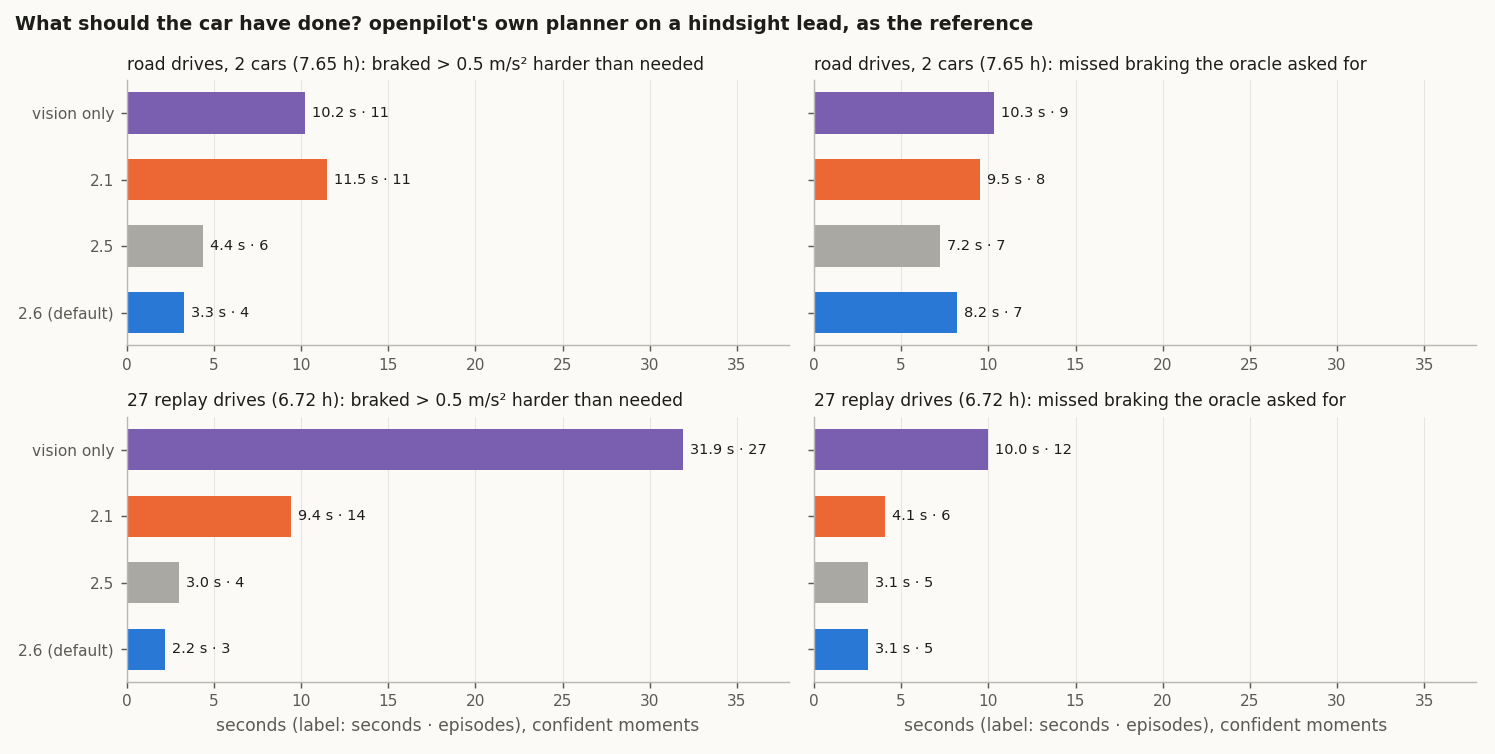
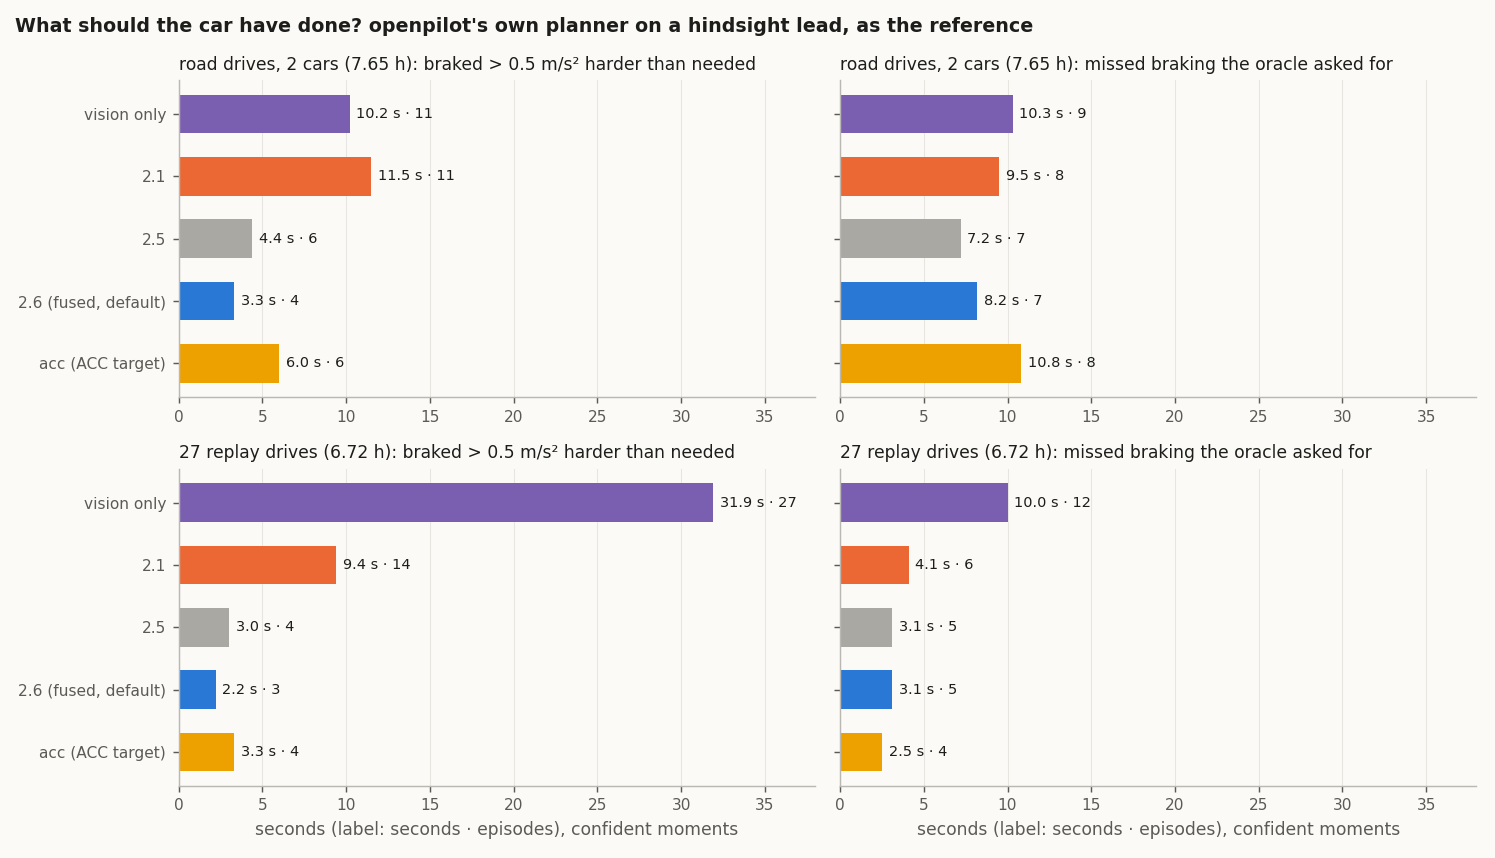
docs, data: the acc profile in the profile figures and stats (#118)
acc replayed on the 27 replay drives with the profiles-vs-vision harness and definitions (onset -0.036 s vs vision,
same anticipation, 9 of 47 hard slowdowns missed, no radar-only braking, jerk 0.985, 318 flips/h); added to
profiles_vs_vision.json / .png, profile_layers.png, profile_comparison.png (its ACC target), oracle_reference.json /
guide_oracle.png (fast-suite rows), docs/11 tables and text, docs/12. One colour for acc in every figure.

diff --git a/tools/make_fused_figures.py b/tools/make_fused_figures.py
@@ -47,6 +47,7 @@ def frames_for_slot(slot: bytes, t: float) -> list:
 
 OUT = REPO / "docs" / "img" / "analysis"
 VIS, ANC, FUS, ACC, SUM = "#7a5fb0", S2, S3, INK, S4
+ACCP = S4  # the acc profile (ACC target alone): one colour in every figure
 
 
 def how_it_works() -> None:
@@ -98,6 +99,18 @@ def path_gate_lines() -> int:
     return j - i
 
 
+def acc_lines() -> int:
+    """Code lines of upstream/ars510_acc_target.py, counted as the parts ledger counts them (no docstrings, comments, blanks)."""
+    import ast, io, tokenize
+    src = (REPO / "upstream" / "ars510_acc_target.py").read_text(); tree = ast.parse(src); doc = set()
+    for node in ast.walk(tree):
+        if isinstance(node, (ast.Module, ast.ClassDef, ast.FunctionDef)) and ast.get_docstring(node):
+            doc.update(range(node.body[0].lineno, node.body[0].end_lineno + 1))
+    skip = (tokenize.COMMENT, tokenize.NL, tokenize.NEWLINE, tokenize.INDENT, tokenize.DEDENT, tokenize.ENDMARKER)
+    lines = {ln for tok in tokenize.generate_tokens(io.StringIO(src).readline) if tok.type not in skip for ln in range(tok.start[0], tok.end[0] + 1)}
+    return len(lines - doc)
+
+
 def layers() -> None:
     """Which processing each profile applies (rows) and how many code lines each part takes (counted from ars510)."""
     import inspect
@@ -111,28 +124,30 @@ def layers() -> None:
             ("ACC target: association", n(I._acc_target_match), (0, 1)),
             ("Kalman speed filter (σ from the radar)", n(I._fused_speed), (0, 1)),
             ("path gate (yaw rate)", path_gate_lines(), (0, 1)),
-            ("summaries (fork option, on in colored)", n(I._summary_update, I._summary_speed, I._summary_match), (0, 0))]
-    prof = ["raw", "fused (default)"]; colors = [GRAY, FUS]
-    fig, ax = plt.subplots(figsize=(8.5, 3.6))
-    for i, (name, lines, on) in enumerate(rows):
+            ("summaries (fork option, on in colored)", n(I._summary_update, I._summary_speed, I._summary_match), (0, 0, 0), ""),
+            ("ACC target (0x235 / 0x237) as the only point", acc_lines(), (0, 0, 1), " (the whole acc file)")]
+    rows = [r if len(r) == 4 else (*r[:2], (*r[2], 0), "") for r in rows]
+    prof = ["raw", "fused (default)", "acc"]; colors = [GRAY, FUS, ACCP]
+    fig, ax = plt.subplots(figsize=(9.6, 3.9))
+    for i, (name, lines, on, note) in enumerate(rows):
         y = len(rows) - 1 - i
         for j, flag in enumerate(on):
             ax.add_patch(plt.Rectangle((j + 0.08, y + 0.12), 0.84, 0.76, color=colors[j] if flag else "#efeee9", lw=0))
         ax.text(-0.1, y + 0.5, name, ha="right", va="center", fontsize=8.8)
-        ax.text(2.1, y + 0.5, f"{lines} lines", ha="left", va="center", fontsize=8.3, color=INK2)
-    ax.set_xlim(-0.05, 2.8); ax.set_ylim(0, len(rows)); ax.set_xticks([0.5, 1.5], prof); ax.xaxis.tick_top()
+        ax.text(3.1, y + 0.5, f"{lines} lines{note}", ha="left", va="center", fontsize=8.3, color=INK2)
+    ax.set_xlim(-0.05, 4.2); ax.set_ylim(0, len(rows)); ax.set_xticks([0.5, 1.5, 2.5], prof); ax.xaxis.tick_top()
     ax.set_yticks([]); ax.grid(False)
     for sp in ax.spines.values(): sp.set_visible(False)
-    ax.set_title("What each profile does to a track (after the shared 0x80 decode)", pad=26)
+    ax.set_title("What each profile does: raw and fused process the 0x80 object list, acc only the ACC target", pad=26, fontsize=10.5)
     fig.tight_layout(); fig.savefig(OUT / "profile_layers.png", dpi=130); plt.close(fig)
 
 
 def vs_vision() -> None:
     S = json.loads((REPO / "data" / "analysis" / "summaries" / "profiles_vs_vision.json").read_text())
     ev, req = S["heldout_events"], S["heldout_one_system_requests_and_overrides"]
-    prof = ["raw", "fused_no_trackers", "fused"]; colors = [GRAY, "#8fd9bb", FUS]
-    names = ["raw", "fused,\nno ACC target", "fused\n(default)"]
-    fig, (a1, a2, a3) = plt.subplots(1, 3, figsize=(13.5, 4.0))
+    prof = ["raw", "fused_no_trackers", "fused", "acc"]; colors = [GRAY, "#8fd9bb", FUS, ACCP]
+    names = ["raw", "fused,\nno ACC target", "fused\n(default)", "acc\n(ACC target)"]
+    fig, (a1, a2, a3) = plt.subplots(1, 3, figsize=(15, 4.2))
     m = [ev[p]["onset_diff_mean_s"] for p in prof]; ci = np.array([ev[p]["onset_diff_ci"] for p in prof]).T
     a1.bar(names, m, color=colors, yerr=[np.array(m) - ci[0], ci[1] - np.array(m)], capsize=4)
     a1.axhline(0, color=INK, lw=0.8); a1.set_ylabel("onset vs vision only (s, < 0 = earlier)")
@@ -144,7 +159,7 @@ def vs_vision() -> None:
     a2.axhline(ev["fused"]["vision_ant10"] * 100, color=VIS, ls=":", lw=1.1)
     a2.set_xticks(x, names); a2.set_ylabel("% of driver brakes"); a2.set_ylim(0, 100)
     a2.set_title("Already asking within 3 s before (purple: vision only)")
-    a2.text(1.0, 93, "solid ≤ −0.5, light ≤ −1.0 m/s²", fontsize=7.5, color=INK2, ha="center")
+    a2.text(1.5, 93, "solid ≤ −0.5, light ≤ −1.0 m/s²", fontsize=7.5, color=INK2, ha="center")
     slowed = [req[p]["radar_only_driver"].get("slowed", 0) for p in prof]
     gas = [req[p]["radar_only_driver"].get("on_gas", 0) for p in prof]
     a3.bar(names, slowed, color=colors, label="driver also slowed")

diff --git a/tools/make_profile_figures.py b/tools/make_profile_figures.py
@@ -4,7 +4,8 @@
     python tools/make_profile_figures.py      # writes docs/img/analysis/profile_comparison.png, acc_sender_clock.png
 
 Every panel runs ars510.Ars510NativeRadarInterface on data/sample/*.csv.gz and plots the in-lane lead (|yRel| < 1.8 m,
-nearest) as published, so the figures can be regenerated from the repository alone.
+nearest) as published, so the figures can be regenerated from the repository alone. The dashed ACC target is what the
+acc profile (upstream/ars510_acc_target.py) publishes as its one point.
 """
 from __future__ import annotations
 
@@ -47,12 +48,14 @@ def frames(name: str):
 def lead(name, cfg) -> dict:
     """Published in-lane lead per radar cycle, plus the radar's ACC target closing speed when present."""
     radar = Ars510NativeRadarInterface(cfg)
-    out = {"t": [], "v": [], "d": [], "acc_t": [], "acc_v": []}
+    out = {"t": [], "v": [], "d": [], "acc_t": [], "acc_v": [], "accd_t": [], "acc_d": []}
     for t, bus, addr, data in (frames(name) if isinstance(name, str) else name()):
         if bus == 1 and addr == 0x235 and len(data) == 8 and data[1] & 4:
             v = parse_acc_target_vrel(data)
             if v is not None:
                 out["acc_t"].append(t); out["acc_v"].append(v)
+        if bus == 1 and addr == 0x237 and len(data) == 8 and (int.from_bytes(data, "big") >> 10) & 1:
+            out["accd_t"].append(t); out["acc_d"].append(((int.from_bytes(data, "big") >> 39) & 0x1FFF) * 0.025)
         res = radar.update_frame(t, bus, addr, data)
         if not res:
             continue
@@ -72,8 +75,13 @@ def profiles_figure() -> None:
                                          ("highway_acc_anchor_24s.csv.gz", "Drive E: excursion that drags the range"))):
         runs = {lab: lead(name, cfg) for lab, cfg in (("raw", STOCK), ("fused", FUSED_CONFIG))}
         av, ad = axes[0, col], axes[1, col]
-        if runs["raw"]["acc_t"]:
-            av.plot(runs["raw"]["acc_t"], runs["raw"]["acc_v"], color=INK, lw=1.0, ls="--", label="radar's ACC target (0x235)")
+        if runs["raw"]["acc_t"]:  # the acc profile publishes exactly this target as its one point
+            av.plot(runs["raw"]["acc_t"], runs["raw"]["acc_v"], color=S4, lw=1.4, ls="--", label="radar's ACC target (0x235) = acc")
+        else:
+            ad.text(0.98, 0.04, "no ACC target in this drive: acc publishes no point\n(radard uses the camera lead)", transform=ad.transAxes,
+                    ha="right", va="bottom", fontsize=7.5, color=INK2)
+        if runs["raw"]["accd_t"]:
+            ad.plot(runs["raw"]["accd_t"], runs["raw"]["acc_d"], color=S4, lw=1.4, ls="--", label="ACC target distance = acc")
         for lab, color in (("raw", GRAY), ("fused", S3)):
             r = runs[lab]
             av.plot(r["t"], r["v"], color=color, label=lab)

diff --git a/tools/make_guide_figures.py b/tools/make_guide_figures.py
@@ -219,10 +219,11 @@ def parts_ledger() -> None:
 def oracle() -> None:
   """Unnecessary and missed braking against openpilot's planner on a hindsight lead (confident moments), two data sets."""
   O = json.loads((SUM / "oracle_reference.json").read_text())
-  sets = (("road drives, 2 cars (7.65 h)", O["confident"], ["vision", "2.1", "2.5", "2.6"]),
-          ("27 replay drives (6.72 h)", O["suite_34_drives"]["confident"], ["vision", "2.1", "2.5", "2.6"]))
-  names = {"vision": "vision only", "2.1": "2.1", "2.5": "2.5", "2.6": "2.6 (default)"}; col = {"vision": VIS, "2.1": V21, "2.5": GRAY, "2.6": V23}
-  fig, axs = plt.subplots(2, 2, figsize=(11.5, 5.8))
+  sets = (("road drives, 2 cars (7.65 h)", O["confident"], ["vision", "2.1", "2.5", "2.6", "acc"]),
+          ("27 replay drives (6.72 h)", O["suite_34_drives"]["confident"], ["vision", "2.1", "2.5", "2.6", "acc"]))
+  names = {"vision": "vision only", "2.1": "2.1", "2.5": "2.5", "2.6": "2.6 (fused, default)", "acc": "acc (ACC target)"}
+  col = {"vision": VIS, "2.1": V21, "2.5": GRAY, "2.6": V23, "acc": S4}
+  fig, axs = plt.subplots(2, 2, figsize=(11.5, 6.6))
   for r, (label, C, vers) in enumerate(sets):
     for c, (kind, title) in enumerate((("unnecessary", "braked > 0.5 m/s² harder than needed"), ("missed", "missed braking the oracle asked for"))):
       ax = axs[r, c]; v = [C[k][kind]["seconds"] for k in vers]; n = [C[k][kind]["episodes"] for k in vers]
@@ -266,7 +267,7 @@ def acc_target_parser() -> None:
   """The ACC target alone against 2.6: file size and braking outcomes over every drive set, from acc_target_parser.json."""
   J = json.loads((SUM / "acc_target_parser.json").read_text()); F, A = J["file_size"], J["by_version_and_set"]
   M = J["hard_and_mild_moving_vs_standstill"]; ALL = "all sets"
-  col = {"vision only": VIS, "2.6": V21, "ACC target only": V23}
+  col = {"vision only": VIS, "2.6": V23, "ACC target only": S4}
   fig, axs = plt.subplots(1, 5, figsize=(13, 3.6), gridspec_kw={"width_ratios": [1.5, 1, 1, 1, 1]})
   ms = ["code_lines", "constants", "state_attributes", "conditions"]; x = np.arange(len(ms))
   for k, (v, dx) in enumerate((("2.6", -0.2), ("ACC target only", 0.2))):

diff --git a/docs/11_profiles_compared.md b/docs/11_profiles_compared.md
@@ -1,7 +1,7 @@
 # 11. Profiles compared: what each does, against vision only and other radar parsers
 
-This page compares `raw` and `fused` (plus a diagnostic `fused` 2.0 run without the ACC target): how
-they work, against **vision only** (stock openpilot on this car), on driving feel, and against openpilot's other radar
+This page compares `raw`, `fused` and `acc` (plus a diagnostic `fused` 2.0 run without the ACC target): how they
+work, against **vision only** (stock openpilot on this car), on driving feel, and against openpilot's other radar
 interfaces.
 
 Numbers: [`profiles_vs_vision.json`](../data/analysis/summaries/profiles_vs_vision.json),
@@ -10,25 +10,29 @@ Numbers: [`profiles_vs_vision.json`](../data/analysis/summaries/profiles_vs_visi
 
 ## At a glance
 
-| | `raw` | `fused` 2.0 without ACC target | `fused` (default) |
-|---|---|---|---|
-| what it adds to the decode | validity, IDs, ego subtraction | range fusion + one Kalman speed filter on the object list | the same filter, also fusing the radar's ACC target, plus a path gate |
-| filter settings | — | scalar process scale, robust update and readiness threshold | also the ACC target's weight; [definitions and evidence](12_kalman_filter.md#the-model) |
-| code | fork build: relink and saturation guard on the shared decode ([below](#how-each-profile-works)) | fork build: speed filter and range fusion | the openpilot version is 187 code lines in all ([10](10_research_directions.md#parts-of-the-openpilot-file)) |
-| hard radar-only braking ticks, 20 held-out routes | 93 | 48 | **29** |
-| braking only the radar asked for, per hour (driver on the gas) | 1.75 (0.66) | 0.88 (0.22) | **0.22 (0)** |
-| first braking request vs vision only (148 paired driver brakes; 149 for `fused`) | −0.15 s | −0.03 s | −0.01 s |
-| recommended for | research | diagnostic: the filter on the object list alone | everyday driving |
+| | `raw` | `fused` 2.0 without ACC target | `fused` (default) | `acc` |
+|---|---|---|---|---|
+| what it publishes | the decoded object list: validity, IDs, ego subtraction | the object list through range fusion + one Kalman speed filter | the same filter, also fusing the radar's ACC target, plus path gates and the far rule | only the radar's ACC target (0x235 / 0x237), as one point; no object list |
+| filter settings | — | scalar process scale, robust update and readiness threshold | also the ACC target's weight; [definitions and evidence](12_kalman_filter.md#the-model) | none |
+| code | fork build: relink and saturation guard on the shared decode ([below](#how-each-profile-works)) | fork build: speed filter and range fusion | the openpilot version is 187 code lines in all ([10](10_research_directions.md#parts-of-the-openpilot-file)) | 33 code lines in all ([10](10_research_directions.md#the-acc-target-alone--candidate)) |
+| hard radar-only braking ticks, 20 held-out routes (while moving) | 93 | 48 | **16 (16)** | 66 (**14**) |
+| braking only the radar asked for, per hour (driver on the gas) | 1.75 (0.66) | 0.88 (0.22) | **0 (0)** | **0 (0)** |
+| first braking request vs vision only (148 paired driver brakes; 149 for `fused` and `acc`) | −0.15 s | −0.03 s | −0.01 s | −0.04 s |
+| recommended for | research | diagnostic: the filter on the object list alone | everyday driving | road tests of the candidate replacement |
 
-`raw` is the unfiltered radar decode. The middle column is a diagnostic: `fused` with the ACC target ignored, which
-shows the Kalman filter on its own. The names of the earlier tuned profiles (`anchor`, `steady`) install `fused`.
+`raw` is the unfiltered radar decode. The `fused` 2.0 column is a diagnostic: `fused` with the ACC target ignored, which
+shows the Kalman filter on its own. `acc`'s hard ticks are mostly holds at standstill (52 of 66): the stopped car 0.7-4.8 m
+behind an object the camera does not report, where radard's low-speed rule keeps it stopped. The names of the earlier
+tuned profiles (`anchor`, `steady`) install `fused`. The research profiles `shared_speed` / `shared_range` are not compared
+here ([10](10_research_directions.md#the-acc-target-alone--candidate)).
 
 ## How each profile works
 
 ![which processing each profile applies](img/analysis/profile_layers.png)
 
 *Each row is one processing step; coloured cells are the steps a profile runs. Line counts are source lines of the
-fork build (`ars510/`); the summaries are a fork option, on in `colored`.*
+fork build (`ars510/`); the summaries are a fork option, on in `colored`. `acc` runs none of the object-list steps: its
+whole file reads the ACC target.*
 
 - **`raw`** publishes the object list as decoded: tracks from age 60 (≈ 3.6 s, once range and speed have converged),
   the radar's own track IDs re-linked across short gaps, speed relative to the ego car, and the invalid velocity code
@@ -41,6 +45,11 @@ fork build (`ars510/`); the summaries are a fork option, on in `colored`.*
   a track is first published once its modeled speed standard deviation is at most 0.75 m/s (and age at least 60).
   That standard deviation is a readiness measure for publication. radard then runs its own Kalman filter on the
   lead; `fused` feeds it one speed per track that already combines what the radar knows.
+- **`acc`** publishes only the radar's ACC target: the one car the radar's own ACC function follows, already chosen,
+  converged and in path, with its fine distance (0.025 m), lateral position and closing speed. Toyota's ACC uses
+  nothing else. The radar's target ID is the track ID; every other car comes from the camera through radard's usual
+  vision match. Protocol only: the target-present flags, a stale flag after 0.5 s without ACC frames, and a report
+  every 5th update (20 Hz).
 
 ![fused: weights and publication](img/analysis/fused_how_it_works.png)
 
@@ -51,7 +60,9 @@ tracks back through the filter's own uncertainty.*
 
 ![profiles on the bundled samples](img/analysis/profile_comparison.png)
 
-*Both profiles on the two bundled excursions (regenerated from `data/sample/`).*
+*`raw` and `fused` on the two bundled excursions (regenerated from `data/sample/`). The dashed line is the radar's ACC
+target, which is exactly what `acc` publishes. Drive A has no ACC target, so there `acc` publishes nothing and radard
+uses the camera lead.*
 
 ## Against vision only
 
@@ -62,24 +73,24 @@ Held-out set (its historical name; the drives were used during development): 20 
 
 ![profiles against vision only](img/analysis/profiles_vs_vision.png)
 
-| driver brake presses (167) | vision only | `raw` | `fused` 2.0 w/o ACC target | `fused` |
-|---|---|---|---|---|
-| first request ≤ −0.5 m/s², mean vs vision (95 % CI) | — | −0.15 s [−0.26, −0.05] | −0.03 s [−0.11, +0.04] | −0.01 s [−0.06, +0.03] |
-| median first request vs the brake press | −0.61 s | −0.87 s | −0.74 s | −0.69 s |
-| already asking ≤ −0.5 m/s² from 3 s before to 0.5 s after | 80.8 % | 84.4 % | 83.8 % | 82.0 % |
-| already asking ≤ −1.0 m/s² from 3 s before to 0.5 s after | 40.1 % | 44.3 % | 41.9 % | 44.9 % |
-| hard slowdowns missed (request stayed above −1 m/s², of 47) | 10 | 9 | 10 | 10 |
+| driver brake presses (167) | vision only | `raw` | `fused` 2.0 w/o ACC target | `fused` | `acc` |
+|---|---|---|---|---|---|
+| first request ≤ −0.5 m/s², mean vs vision (95 % CI) | — | −0.15 s [−0.26, −0.05] | −0.03 s [−0.11, +0.04] | −0.01 s [−0.06, +0.03] | −0.04 s [−0.09, +0.00] |
+| median first request vs the brake press | −0.61 s | −0.87 s | −0.74 s | −0.69 s | −0.68 s |
+| already asking ≤ −0.5 m/s² from 3 s before to 0.5 s after | 80.8 % | 84.4 % | 83.8 % | 82.0 % | 82.0 % |
+| already asking ≤ −1.0 m/s² from 3 s before to 0.5 s after | 40.1 % | 44.3 % | 41.9 % | 44.9 % | 44.9 % |
+| hard slowdowns missed (request stayed above −1 m/s², of 47) | 10 | 9 | 10 | 10 | 9 |
 
-| over 4.56 h of driver-controlled driving (jerk, error, lead share and flips: its 2.66 h moving) | vision only | `raw` | `fused` 2.0 w/o ACC target | `fused` |
-|---|---|---|---|---|
-| braking (≤ −1 m/s², ≥ 0.3 s) only this system asked for, per hour (driver-controlled stretches only) | 0 | 1.75 | 0.88 | 0 |
-| … of which the driver was on the gas | — | 0.66 | 0.22 | 0 |
-| hard radar-only braking ticks (≤ −2 m/s² while vision ≥ −0.5) | — | 93 | 48 | 16 |
-| driver overrides (38): radar request closer / further than vision to what the driver then did | — | 7 / 2 | 6 / 1 | 7 / 0 |
-| request error vs the driver's acceleration 0.5 s later (RMS) | 0.409 m/s² | 0.422 | 0.419 | 0.412 |
-| request jerk (mean \|da/dt\|) | 1.003 | 1.029 | 1.007 | 0.993 |
-| share of lead time on a radar lead | 0 | 86.6 % | 86.8 % | 83.1 % |
-| flips between a radar and a vision lead, per hour | 0 | 939 | 703 | 347 |
+| over 4.56 h of driver-controlled driving (jerk, error, lead share and flips: its 2.66 h moving) | vision only | `raw` | `fused` 2.0 w/o ACC target | `fused` | `acc` |
+|---|---|---|---|---|---|
+| braking (≤ −1 m/s², ≥ 0.3 s) only this system asked for, per hour (driver-controlled stretches only) | 0 | 1.75 | 0.88 | 0 | 0 |
+| … of which the driver was on the gas | — | 0.66 | 0.22 | 0 | 0 |
+| hard radar-only braking ticks (≤ −2 m/s² while vision ≥ −0.5; while moving) | — | 93 | 48 | 16 (16) | 66 (14) |
+| driver overrides (38): radar request closer / further than vision to what the driver then did | — | 7 / 2 | 6 / 1 | 7 / 0 | 7 / 0 |
+| request error vs the driver's acceleration 0.5 s later (RMS) | 0.409 m/s² | 0.422 | 0.419 | 0.412 | 0.411 |
+| request jerk (mean \|da/dt\|) | 1.003 | 1.029 | 1.007 | 0.993 | 0.985 |
+| share of lead time on a radar lead | 0 | 86.6 % | 86.8 % | 83.1 % | 84.8 % |
+| flips between a radar and a vision lead, per hour | 0 | 939 | 703 | 347 | 318 |
 
 What the radar adds, by profile:
 
@@ -93,6 +104,11 @@ What the radar adds, by profile:
   (median 0.16; [`profiles_vs_vision.json`](../data/analysis/summaries/profiles_vs_vision.json)).
 - **The Kalman filter alone** (`fused` 2.0 without the ACC target) halves `raw`'s hard radar-only braking (93 → 48 hard ticks) with onset between
   `raw` and `fused`; the radar's ACC target supplies the rest of the drop in hard braking (`fused` 2.0 already reached 30 ticks).
+- **`acc` drives like `fused` without its filter.** Braking starts 0.04 s before vision only on average (95 % CI
+  −0.09 … +0.00), with the same anticipation, one hard slowdown fewer missed, no radar-only braking, the lowest jerk and
+  fewer lead flips. Its extra hard ticks are holds at standstill behind objects the camera does not report; while
+  moving it has 14 against `fused`'s 16. On the 4 further drives it has one hard brake (7 ticks) that `fused` does not:
+  a real object braking and drifting a lane over at 82 m that radard matches to the camera's lead 27 m further on.
 - **Every profile follows a radar lead about 87 % of the time a lead exists**, so radard uses the radar distance for
   those leads. In `fused` the car the radar's ACC function follows is published at the radar's
   ACC distance, which agrees with the vision lead within a metre up to 90 m and, when it was added in 2.1, cut the flips between a
@@ -105,7 +121,8 @@ What the radar adds, by profile:
 |---|---|---|
 | vision only | smooth; braking follows the camera alone | camera distance at range; closings through curves or far away seen later than the radar sees them |
 | `raw` | earliest reaction to real slowdowns (−0.15 s vs vision) | the most radar-only braking (1.75 / h, over a third with the driver on the gas): occasional sharp brakes on false closings beyond 40 m |
-| `fused` | closest to vision in feel (lowest jerk; smallest error vs the driver among the radar profiles), radar-only braking almost gone, as early as vision on average, one speed state | the head start over vision is small on average; road miles from two cars so far |
+| `fused` | closest to vision in feel, radar-only braking gone, as early as vision on average, one speed state | the head start over vision is small on average; 187 lines with tuned gates |
+| `acc` | 33 lines, nothing tuned; uses the radar the way Toyota's ACC does; lowest jerk and fewest flips in replay; slightly earlier than vision | a cut-in or fast far closing reaches the planner through the camera until the radar picks the car (~0.75-1 s); holds at standstill behind close objects; no road miles yet |
 
 ## Assumptions and limits
 
@@ -135,6 +152,7 @@ What the radar adds, by profile:
 | Chrysler | 56 | pass-through |
 | GM | 71 | pass-through of the radar's targets |
 | Ford | 184 (272 lines in all) | clusters raw Delphi detections into tracks |
+| **ARS510 `acc` profile** ([`upstream/ars510_acc_target.py`](../upstream/ars510_acc_target.py)) | 33 | the radar's ACC target as one point: target-present flags; pass-through |
 | **ARS510 openpilot version** ([`upstream/ars510_radar.py`](../upstream/ars510_radar.py)) | 187 | `fused` in one file; part by part in [10](10_research_directions.md#parts-of-the-openpilot-file) |
 | … transport, CRC, slot decode, track IDs, ego speed, RadarInterface wrapper | 103 | a 742-byte record from 106 CAN frames, 20 slots of bit fields |
 | … ACC target decode and association | 27 | match the radar's own ACC target to one track |

diff --git a/docs/12_kalman_filter.md b/docs/12_kalman_filter.md
@@ -258,7 +258,10 @@ Over 7.65 h of road drives (the owner's and the second car's), `fused` brakes un
 oracle asked for (8.2 s, vision 10.3 s, 2.1 9.5 s; 2.5 and 2.4 7.2 s). On the 27 replay drives (6.72 h scored): 2.2 s
 unnecessary (vision 31.9 s, 2.1 9.4 s, 2.5 3.0 s, 2.4 7.1 s) and 3.1 s missed (vision 10.0 s, 2.1 4.1 s, 2.5 3.1 s).
 The reference takes its range from the ACC target, so it favours versions that weigh the ACC target more; read 2.5's
-gain over 2.4 here with that in mind ([below](#the-acc-targets-weight)). Scoring covers moving
+gain over 2.4 here with that in mind ([below](#the-acc-targets-weight)). The `acc` profile, which publishes only the ACC target, scores
+6.0 s unnecessary and 10.8 s missed on the road drives and 3.3 s / 2.5 s on the 27 replay drives. On the road, 2.35 of
+those missed seconds are a single cut-in where it asks −0.51 m/s² and `fused` −0.53 m/s², on either side of the
+oracle's −0.5 threshold. Scoring covers moving
 moments (above 1 m/s), where the lead signal decides; at standstill the planner's stop-and-go logic does. Numbers:
 [`oracle_reference.json`](../data/analysis/summaries/oracle_reference.json).
 
